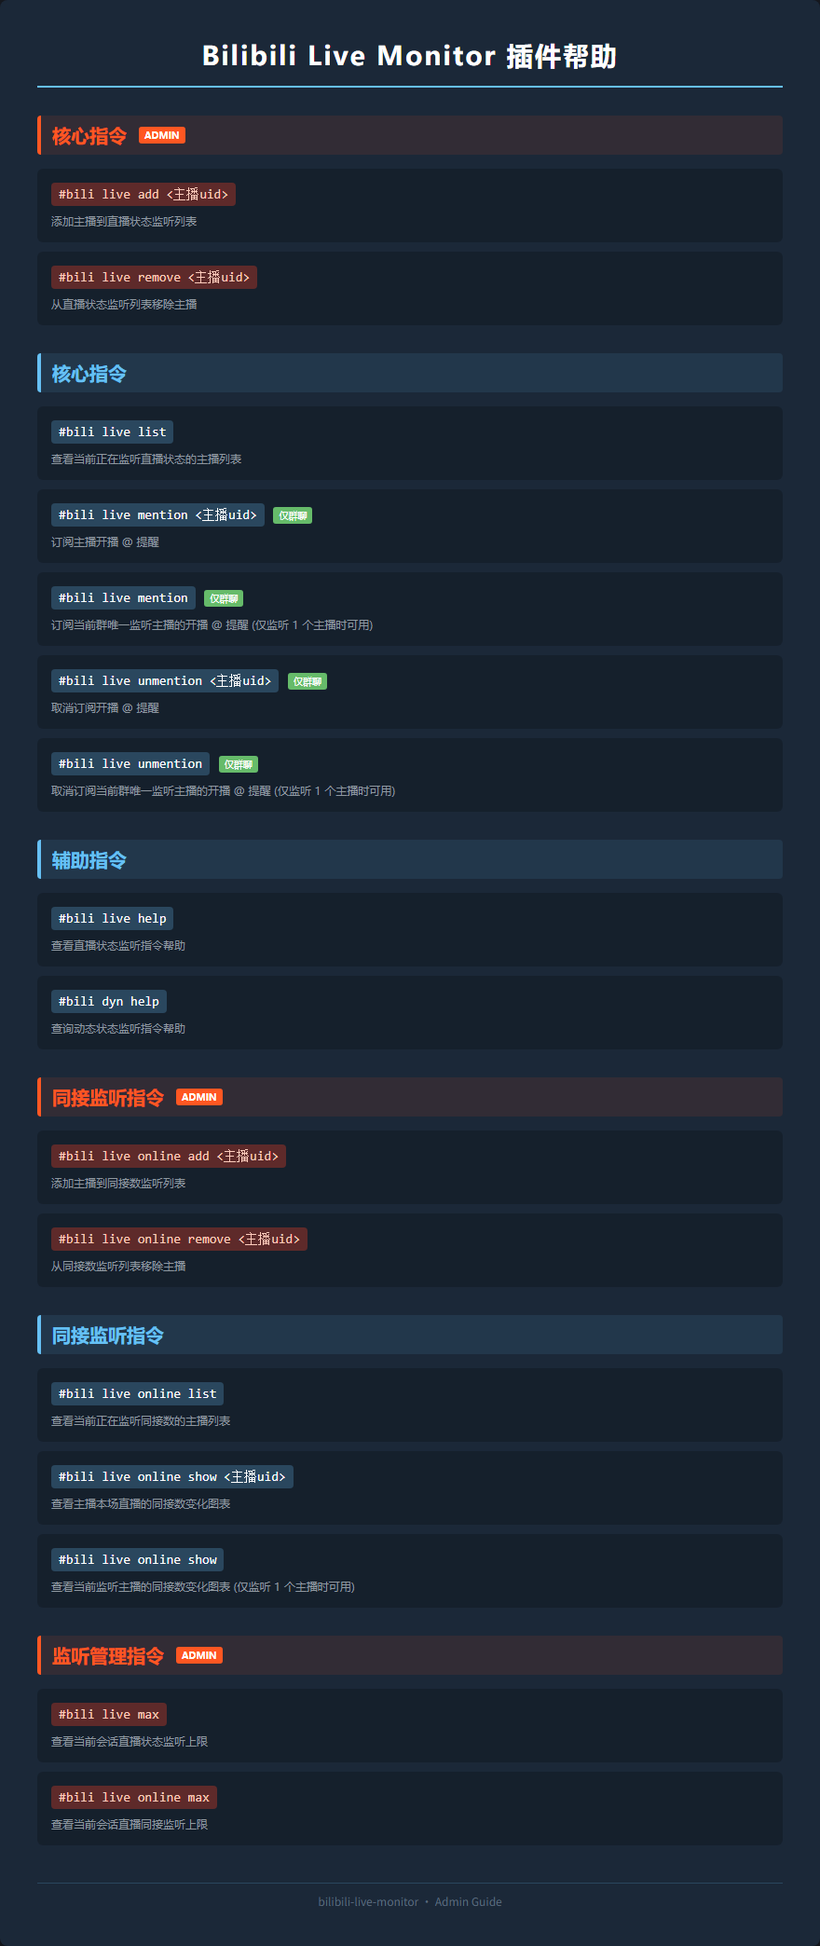
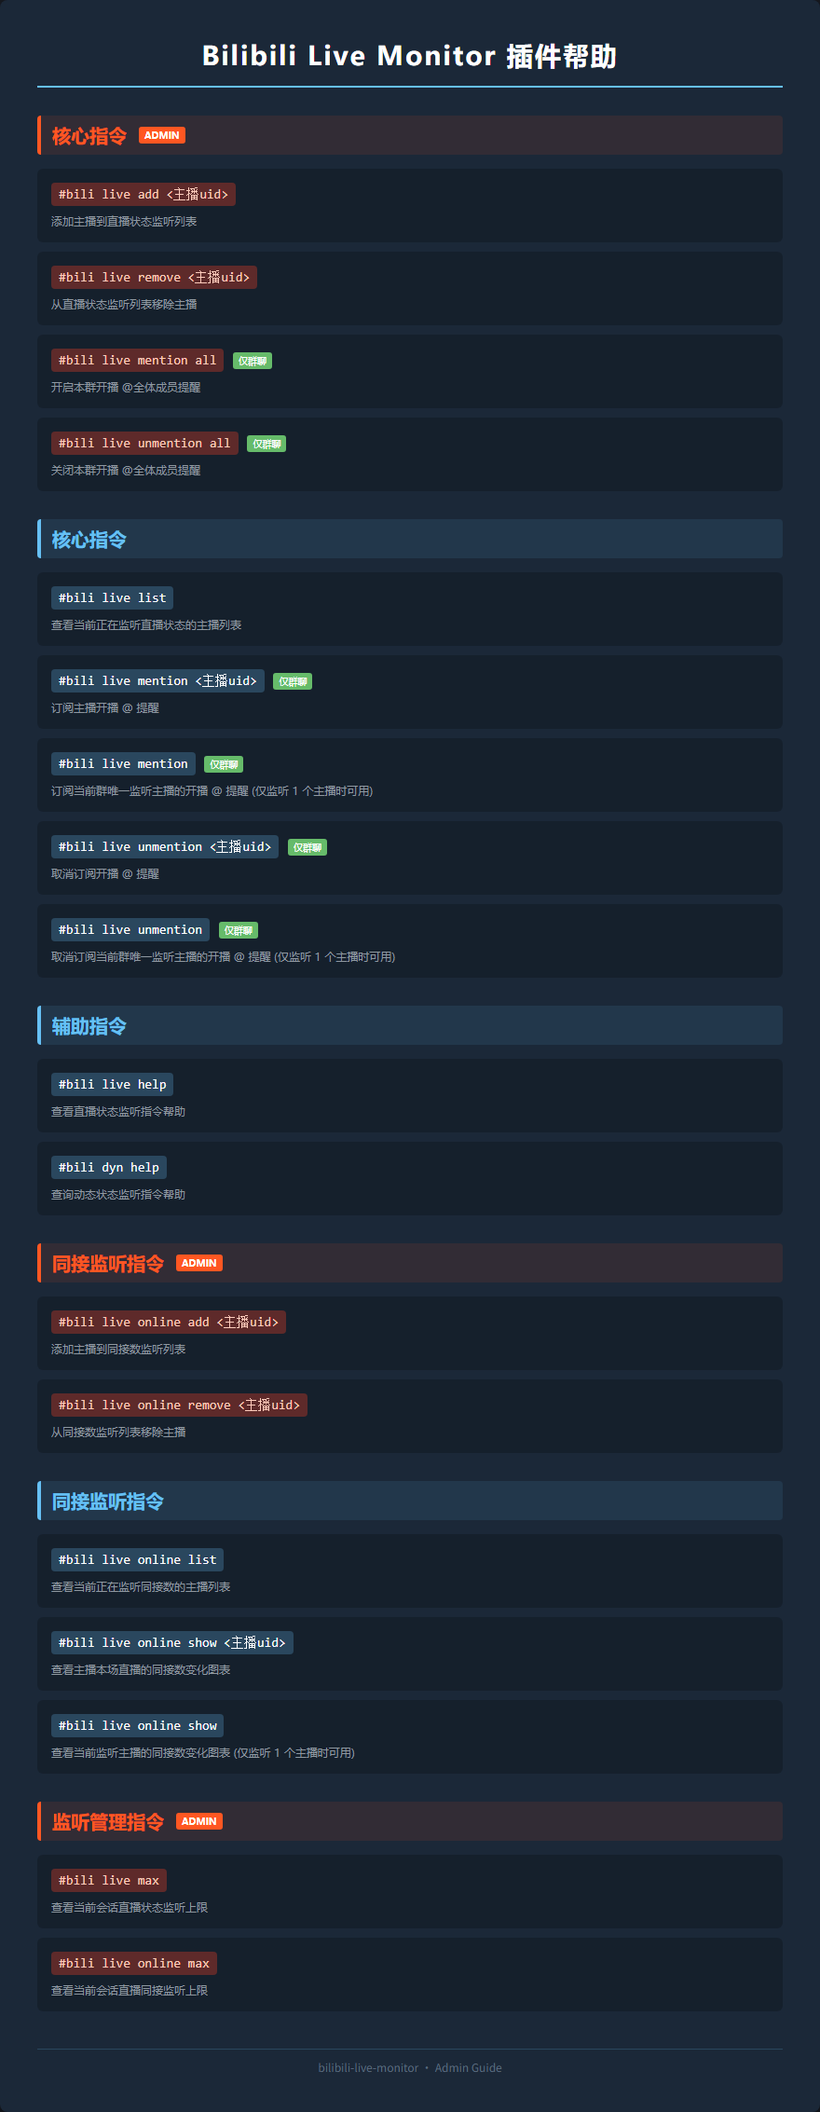
feat(live): 新增群级开播 @全体成员提醒指令
新增 #bili live mention all / unmention all (仅群聊、管理员): 开启后本群开播推送前置 @全体成员。机器人非管理员或当日配额用完时静默降级为普通消息。校验封装于 src/core/atAll.ts。

Changed region(s): [[0.0307, 0.0, 0.9511, 0.965], [0.5216, 0.965, 0.6136, 0.9962], [0.4295, 0.965, 0.4909, 0.9962]]

diff --git a/src/handlers/live/helpText.generated.ts b/src/handlers/live/helpText.generated.ts
@@ -8,6 +8,6 @@ import type { HelpVariant } from '../../utils/helpMessage';
 /** 按帮助版本的文本帮助 (图片降级用), Admin 版同时用于私聊用户与群聊超管 */
 export const HELP_TEXT_MAP: Record<HelpVariant, string> = {
     user: "【Bilibili Live Monitor 插件帮助】\n\n核心指令:\n#bili live list: 查看当前正在监听直播状态的主播列表\n#bili live mention <主播uid>: 订阅主播开播 @ 提醒 [仅群聊]\n#bili live mention: 订阅当前群唯一监听主播的开播 @ 提醒 (仅监听 1 个主播时可用) [仅群聊]\n#bili live unmention <主播uid>: 取消订阅开播 @ 提醒 [仅群聊]\n#bili live unmention: 取消订阅当前群唯一监听主播的开播 @ 提醒 (仅监听 1 个主播时可用) [仅群聊]\n\n辅助指令:\n#bili live help: 查看直播状态监听指令帮助\n#bili dyn help: 查询动态状态监听指令帮助\n\n同接监听指令:\n#bili live online list: 查看当前正在监听同接数的主播列表\n#bili live online show <主播uid>: 查看主播本场直播的同接数变化图表\n#bili live online show: 查看当前监听主播的同接数变化图表 (仅监听 1 个主播时可用)\n",
-    admin: "【Bilibili Live Monitor 插件帮助】\n\n核心指令 [管理员]:\n#bili live add <主播uid>: 添加主播到直播状态监听列表\n#bili live remove <主播uid>: 从直播状态监听列表移除主播\n\n核心指令:\n#bili live list: 查看当前正在监听直播状态的主播列表\n#bili live mention <主播uid>: 订阅主播开播 @ 提醒 [仅群聊]\n#bili live mention: 订阅当前群唯一监听主播的开播 @ 提醒 (仅监听 1 个主播时可用) [仅群聊]\n#bili live unmention <主播uid>: 取消订阅开播 @ 提醒 [仅群聊]\n#bili live unmention: 取消订阅当前群唯一监听主播的开播 @ 提醒 (仅监听 1 个主播时可用) [仅群聊]\n\n辅助指令:\n#bili live help: 查看直播状态监听指令帮助\n#bili dyn help: 查询动态状态监听指令帮助\n\n同接监听指令 [管理员]:\n#bili live online add <主播uid>: 添加主播到同接数监听列表\n#bili live online remove <主播uid>: 从同接数监听列表移除主播\n\n同接监听指令:\n#bili live online list: 查看当前正在监听同接数的主播列表\n#bili live online show <主播uid>: 查看主播本场直播的同接数变化图表\n#bili live online show: 查看当前监听主播的同接数变化图表 (仅监听 1 个主播时可用)\n\n监听管理指令 [管理员]:\n#bili live max: 查看当前会话直播状态监听上限\n#bili live online max: 查看当前会话直播同接监听上限\n",
-    superAdmin: "【Bilibili Live Monitor 插件帮助】\n\n核心指令 [管理员]:\n#bili live add <主播uid>: 添加主播到直播状态监听列表\n#bili live remove <主播uid>: 从直播状态监听列表移除主播\n\n核心指令:\n#bili live list: 查看当前正在监听直播状态的主播列表\n#bili live mention <主播uid>: 订阅主播开播 @ 提醒 [仅群聊]\n#bili live mention: 订阅当前群唯一监听主播的开播 @ 提醒 (仅监听 1 个主播时可用) [仅群聊]\n#bili live unmention <主播uid>: 取消订阅开播 @ 提醒 [仅群聊]\n#bili live unmention: 取消订阅当前群唯一监听主播的开播 @ 提醒 (仅监听 1 个主播时可用) [仅群聊]\n\n辅助指令:\n#bili live help: 查看直播状态监听指令帮助\n#bili dyn help: 查询动态状态监听指令帮助\n\n辅助指令 [超管]:\n#bili user help: 查询 Bilibili 用户登录指令帮助 [仅私聊]\n\n同接监听指令 [管理员]:\n#bili live online add <主播uid>: 添加主播到同接数监听列表\n#bili live online remove <主播uid>: 从同接数监听列表移除主播\n\n同接监听指令:\n#bili live online list: 查看当前正在监听同接数的主播列表\n#bili live online show <主播uid>: 查看主播本场直播的同接数变化图表\n#bili live online show: 查看当前监听主播的同接数变化图表 (仅监听 1 个主播时可用)\n\n监听管理指令 [管理员]:\n#bili live max: 查看当前会话直播状态监听上限\n#bili live online max: 查看当前会话直播同接监听上限\n\n监听管理指令 [超管]:\n#bili live max <监听数>: 设置当前群聊直播状态监听上限 [仅群聊]\n#bili live max <监听数> <group|private> <id>: 修改指定会话直播状态监听上限 [仅私聊]\n#bili live online max <监听数>: 设置当前群聊直播同接监听上限 [仅群聊]\n#bili live online max <监听数> <group|private> <id>: 修改指定会话直播同接监听上限 [仅私聊]\n",
+    admin: "【Bilibili Live Monitor 插件帮助】\n\n核心指令 [管理员]:\n#bili live add <主播uid>: 添加主播到直播状态监听列表\n#bili live remove <主播uid>: 从直播状态监听列表移除主播\n#bili live mention all: 开启本群开播 @全体成员提醒 [仅群聊]\n#bili live unmention all: 关闭本群开播 @全体成员提醒 [仅群聊]\n\n核心指令:\n#bili live list: 查看当前正在监听直播状态的主播列表\n#bili live mention <主播uid>: 订阅主播开播 @ 提醒 [仅群聊]\n#bili live mention: 订阅当前群唯一监听主播的开播 @ 提醒 (仅监听 1 个主播时可用) [仅群聊]\n#bili live unmention <主播uid>: 取消订阅开播 @ 提醒 [仅群聊]\n#bili live unmention: 取消订阅当前群唯一监听主播的开播 @ 提醒 (仅监听 1 个主播时可用) [仅群聊]\n\n辅助指令:\n#bili live help: 查看直播状态监听指令帮助\n#bili dyn help: 查询动态状态监听指令帮助\n\n同接监听指令 [管理员]:\n#bili live online add <主播uid>: 添加主播到同接数监听列表\n#bili live online remove <主播uid>: 从同接数监听列表移除主播\n\n同接监听指令:\n#bili live online list: 查看当前正在监听同接数的主播列表\n#bili live online show <主播uid>: 查看主播本场直播的同接数变化图表\n#bili live online show: 查看当前监听主播的同接数变化图表 (仅监听 1 个主播时可用)\n\n监听管理指令 [管理员]:\n#bili live max: 查看当前会话直播状态监听上限\n#bili live online max: 查看当前会话直播同接监听上限\n",
+    superAdmin: "【Bilibili Live Monitor 插件帮助】\n\n核心指令 [管理员]:\n#bili live add <主播uid>: 添加主播到直播状态监听列表\n#bili live remove <主播uid>: 从直播状态监听列表移除主播\n#bili live mention all: 开启本群开播 @全体成员提醒 [仅群聊]\n#bili live unmention all: 关闭本群开播 @全体成员提醒 [仅群聊]\n\n核心指令:\n#bili live list: 查看当前正在监听直播状态的主播列表\n#bili live mention <主播uid>: 订阅主播开播 @ 提醒 [仅群聊]\n#bili live mention: 订阅当前群唯一监听主播的开播 @ 提醒 (仅监听 1 个主播时可用) [仅群聊]\n#bili live unmention <主播uid>: 取消订阅开播 @ 提醒 [仅群聊]\n#bili live unmention: 取消订阅当前群唯一监听主播的开播 @ 提醒 (仅监听 1 个主播时可用) [仅群聊]\n\n辅助指令:\n#bili live help: 查看直播状态监听指令帮助\n#bili dyn help: 查询动态状态监听指令帮助\n\n辅助指令 [超管]:\n#bili user help: 查询 Bilibili 用户登录指令帮助 [仅私聊]\n\n同接监听指令 [管理员]:\n#bili live online add <主播uid>: 添加主播到同接数监听列表\n#bili live online remove <主播uid>: 从同接数监听列表移除主播\n\n同接监听指令:\n#bili live online list: 查看当前正在监听同接数的主播列表\n#bili live online show <主播uid>: 查看主播本场直播的同接数变化图表\n#bili live online show: 查看当前监听主播的同接数变化图表 (仅监听 1 个主播时可用)\n\n监听管理指令 [管理员]:\n#bili live max: 查看当前会话直播状态监听上限\n#bili live online max: 查看当前会话直播同接监听上限\n\n监听管理指令 [超管]:\n#bili live max <监听数>: 设置当前群聊直播状态监听上限 [仅群聊]\n#bili live max <监听数> <group|private> <id>: 修改指定会话直播状态监听上限 [仅私聊]\n#bili live online max <监听数>: 设置当前群聊直播同接监听上限 [仅群聊]\n#bili live online max <监听数> <group|private> <id>: 修改指定会话直播同接监听上限 [仅私聊]\n",
 };

diff --git a/src/core/atAll.ts b/src/core/atAll.ts
@@ -1,0 +1,105 @@
+/**
+ * @全体成员 发送能力校验模块
+ *
+ * 封装"机器人能否在指定群发送 @全体成员"的前置校验:
+ * 机器人须为本群管理员/群主, 且当日群配额未用完。
+ * 校验只读不写, 任何查询失败一律按"不可发送"处理 (静默降级),
+ * 由调用方决定跳过 @全体还是普通发送。范式见 docs/message-send-pattern.md。
+ */
+
+import type { NapCatPluginContext } from 'napcat-types/napcat-onebot/network/plugin/types';
+import { pluginState } from './state';
+
+/** 机器人在群内的成员角色 */
+export type BotGroupRole = 'owner' | 'admin' | 'member';
+
+/** @全体成员 配额查询结果 (字段名沿用 OneBot 11 的 get_group_at_all_remain) */
+interface AtAllRemain {
+    /** 机器人账号在该群是否具备 @全体成员 权限 */
+    can_at_all: boolean;
+    /** 该群当日剩余 @全体成员 次数 */
+    remain_at_all_count_for_group: number;
+    /** 机器人账号当日剩余 @全体成员 次数 (跨群共享) */
+    remain_at_all_count_for_uin: number;
+}
+
+/**
+ * 查询机器人自身在指定群的成员角色
+ * 查询失败、机器人 QQ 未知或角色无法识别时返回 null
+ */
+export async function getBotGroupRole(
+    ctx: NapCatPluginContext,
+    groupId: string | number,
+): Promise<BotGroupRole | null> {
+    if (!pluginState.selfId) return null;
+    try {
+        const info = (await ctx.actions.call(
+            'get_group_member_info',
+            {
+                group_id: String(groupId),
+                user_id: pluginState.selfId,
+            },
+            ctx.adapterName,
+            ctx.pluginManager.config,
+        )) as { role?: string };
+        if (
+            info?.role === 'owner' ||
+            info?.role === 'admin' ||
+            info?.role === 'member'
+        ) {
+            return info.role;
+        }
+        return null;
+    } catch (error) {
+        pluginState.logger.debug('查询机器人群成员角色失败:', error);
+        return null;
+    }
+}
+
+/**
+ * 判断机器人是否为指定群的管理员/群主
+ * 查询失败视为否 (fail-closed)
+ */
+export async function isBotGroupAdmin(
+    ctx: NapCatPluginContext,
+    groupId: string | number,
+): Promise<boolean> {
+    const role = await getBotGroupRole(ctx, groupId);
+    return role === 'owner' || role === 'admin';
+}
+
+/** 查询群内 @全体成员 剩余配额; 查询失败返回 null (按不可发送处理) */
+async function getAtAllQuota(
+    ctx: NapCatPluginContext,
+    groupId: string | number,
+): Promise<AtAllRemain | null> {
+    try {
+        return (await ctx.actions.call(
+            'get_group_at_all_remain',
+            { group_id: String(groupId) },
+            ctx.adapterName,
+            ctx.pluginManager.config,
+        )) as AtAllRemain;
+    } catch (error) {
+        pluginState.logger.debug('查询 @全体成员 配额失败:', error);
+        return null;
+    }
+}
+
+/**
+ * 判断能否对指定群发送 @全体成员
+ * 需机器人为群管理员且群内当日配额未用完; 任一条件不满足或查询失败
+ * 均返回 false (静默降级, 不向用户提示)
+ */
+export async function canSendAtAll(
+    ctx: NapCatPluginContext,
+    groupId: string | number,
+): Promise<boolean> {
+    if (!(await isBotGroupAdmin(ctx, groupId))) return false;
+    const quota = await getAtAllQuota(ctx, groupId);
+    return (
+        !!quota &&
+        quota.can_at_all &&
+        quota.remain_at_all_count_for_group > 0
+    );
+}

diff --git a/src/services/live/polling.service.ts b/src/services/live/polling.service.ts
@@ -10,14 +10,17 @@
  * 因此这里使用惰性 getter，避免模块加载期过早初始化抛错。
  */
 
-import type {
-    OB11MessageDataType,
-    OB11PostSendMsg,
-} from 'napcat-types/napcat-onebot';
+import type { OB11PostSendMsg } from 'napcat-types/napcat-onebot';
 import type { NapCatPluginContext } from 'napcat-types/napcat-onebot/network/plugin/types';
 import { api_getStatusInfoByUids } from '../../api/getStatusInfoByUids';
+import { canSendAtAll } from '../../core/atAll';
 import { pluginState } from '../../core/state';
-import { sendReplyByToInfo } from '../../handlers/utils';
+import {
+    createAtMessage,
+    createTextMessage,
+    prependAtAllMessage,
+    sendReplyByToInfo,
+} from '../../handlers/utils';
 import { BiliDynMonitorStore } from '../../store/biliDynMonitor.store';
 import {
     BiliLiveMonitorStore,
@@ -278,10 +281,22 @@ export class BiliLivePollingService {
                     }
                 }
 
+                // 开播且本群开启 @全体成员提醒时, 机器人为管理员且当日
+                // 配额未用完方可在消息前置 @全体; 否则静默降级为普通消息
+                let outgoing: OB11PostSendMsg['message'] = message;
+                if (
+                    event.type === 'start_stream' &&
+                    toInfo.type === 'group' &&
+                    pluginState.isLiveMentionAllEnabled(toInfo.id) &&
+                    (await canSendAtAll(pluginState.ctx, toInfo.id))
+                ) {
+                    outgoing = prependAtAllMessage(message);
+                }
+
                 await sendReplyByToInfo(
                     pluginState.ctx,
                     toInfo,
-                    message,
+                    outgoing,
                 );
             }
 
@@ -582,14 +597,8 @@ async function sendMentionMessages(
     ) {
         const chunk = mentionUsers.slice(i, i + MENTION_GROUP_SIZE);
         const message: OB11PostSendMsg['message'] = [
-            ...chunk.map((qq) => ({
-                type: 'at' as OB11MessageDataType.at,
-                data: { qq },
-            })),
-            {
-                type: 'text' as OB11MessageDataType.text,
-                data: { text: `\n「${uname}」开始直播了` },
-            },
+            ...chunk.map((qq) => createAtMessage(qq)),
+            createTextMessage(`\n「${uname}」开始直播了`),
         ];
         await sendReplyByToInfo(ctx, toInfo, message);
     }

diff --git a/src/handlers/instruction.handler.ts b/src/handlers/instruction.handler.ts
@@ -12,6 +12,7 @@ import { helpLiveHandler } from './live/help.handler';
 import { listLiveHandler } from './live/list.handler';
 import { maxLiveHandler } from './live/max.handler';
 import { mentionLiveHandler } from './live/mention.handler';
+import { mentionAllHandler } from './live/mentionAll.handler';
 import { addOnlineHandler } from './live/online/add.handler';
 import { listOnlineHandler } from './live/online/list.handler';
 import { maxOnlineHandler } from './live/online/max.handler';
@@ -19,6 +20,7 @@ import { removeOnlineHandler } from './live/online/remove.handler';
 import { showOnlineHandler } from './live/online/show.handler';
 import { removeLiveHandler } from './live/remove.handler';
 import { unmentionLiveHandler } from './live/unmention.handler';
+import { unmentionAllHandler } from './live/unmentionAll.handler';
 import { helpUserHandler } from './user/help.handler';
 import { loginHandler } from './user/login.handler';
 import { logoutHandler } from './user/logout.handler';
@@ -127,6 +129,26 @@ const nestedInstructionSetMapper: Record<
                         requiredRole: 'superAdmin',
                     },
                 ],
+            },
+        },
+        mention: {
+            /**
+             * 开启本群开播 @全体成员提醒 (仅群聊, 管理员)
+             */
+            all: {
+                handler: mentionAllHandler,
+                requiredRole: 'admin',
+                scope: 'group',
+            },
+        },
+        unmention: {
+            /**
+             * 关闭本群开播 @全体成员提醒 (仅群聊, 管理员)
+             */
+            all: {
+                handler: unmentionAllHandler,
+                requiredRole: 'admin',
+                scope: 'group',
             },
         },
     },

diff --git a/src/handlers/utils.ts b/src/handlers/utils.ts
@@ -8,7 +8,9 @@
 
 import type {
     OB11Message,
+    OB11MessageAt,
     OB11MessageDataType,
+    OB11MessageText,
     OB11PostSendMsg,
 } from 'napcat-types/napcat-onebot';
 import type { NapCatPluginContext } from 'napcat-types/napcat-onebot/network/plugin/types';
@@ -204,4 +206,42 @@ export function createImageMessage(
         type: 'image' as OB11MessageDataType.image,
         data: { file },
     };
+}
+
+/**
+ * 创建文本消息段
+ */
+export function createTextMessage(text: string): OB11MessageText {
+    return {
+        type: 'text' as OB11MessageDataType.text,
+        data: { text },
+    };
+}
+
+/**
+ * 创建 @ 消息段
+ * @param qq 目标 QQ 号, 取固定值 'all' 即 @全体成员
+ * @param name 群昵称, @全体成员 时无需传入
+ */
+export function createAtMessage(
+    qq: string,
+    name?: string,
+): OB11MessageAt {
+    const data: OB11MessageAt['data'] = { qq };
+    if (name) data.name = name;
+    return { type: 'at' as OB11MessageDataType.at, data };
+}
+
+/**
+ * 在消息最前面插入 @全体成员 段
+ * 字符串消息升级为消息段数组 (纯 @全体成员 无正文在多数客户端渲染为空白,
+ * 故 @全体成员 后始终跟随原有文本)
+ */
+export function prependAtAllMessage(
+    message: OB11PostSendMsg['message'],
+): OB11PostSendMsg['message'] {
+    if (typeof message === 'string') {
+        return [createAtMessage('all'), createTextMessage(message)];
+    }
+    return [createAtMessage('all'), ...message];
 }

diff --git a/src/handlers/live/mentionAll.handler.ts b/src/handlers/live/mentionAll.handler.ts
@@ -1,0 +1,40 @@
+import type { OB11Message } from 'napcat-types/napcat-onebot';
+import type { NapCatPluginContext } from 'napcat-types/napcat-onebot/network/plugin/types';
+import { getBotGroupRole } from '../../core/atAll';
+import { pluginState } from '../../core/state';
+import { sendReply } from '../utils';
+
+/**
+ * 开启本群开播 @全体成员提醒（仅群聊、管理员）
+ *
+ * 开启前确认机器人为本群管理员: 查询失败则 fail-closed 拒绝,
+ * 机器人非管理员时提示先设为管理员。
+ */
+export const mentionAllHandler = async (
+    ctx: NapCatPluginContext,
+    event: OB11Message,
+    _commands: string[],
+) => {
+    const groupId = String(event.group_id);
+
+    const role = await getBotGroupRole(ctx, groupId);
+    if (role === null) {
+        await sendReply(
+            ctx,
+            event,
+            '开启失败：无法确认机器人权限, 请稍后重试',
+        );
+        return;
+    }
+    if (role === 'member') {
+        await sendReply(
+            ctx,
+            event,
+            '开启失败：机器人不是本群管理员, 请先将机器人设为群管理员',
+        );
+        return;
+    }
+
+    pluginState.updateGroupConfig(groupId, { liveMentionAll: true });
+    await sendReply(ctx, event, '已开启本群开播 @全体成员提醒');
+};

diff --git a/src/core/state.ts b/src/core/state.ts
@@ -87,6 +87,8 @@ export function sanitizeConfig(raw: unknown): PluginConfig {
                 const cfg: GroupConfig = {};
                 if (typeof groupConfig.enabled === 'boolean')
                     cfg.enabled = groupConfig.enabled;
+                if (typeof groupConfig.liveMentionAll === 'boolean')
+                    cfg.liveMentionAll = groupConfig.liveMentionAll;
                 // TODO: 在这里添加你的群配置项清洗
                 out.groupConfigs[groupId] = cfg;
             }
@@ -307,6 +309,16 @@ class PluginState {
      */
     isGroupEnabled(groupId: string): boolean {
         return this.config.groupConfigs[groupId]?.enabled !== false;
+    }
+
+    /**
+     * 检查指定群是否开启开播 @全体成员提醒
+     * 默认关闭, 仅显式存为 true 才生效
+     */
+    isLiveMentionAllEnabled(groupId: string): boolean {
+        return (
+            this.config.groupConfigs[groupId]?.liveMentionAll === true
+        );
     }
 
     /**

diff --git a/src/handlers/live/unmentionAll.handler.ts b/src/handlers/live/unmentionAll.handler.ts
@@ -1,0 +1,25 @@
+import type { OB11Message } from 'napcat-types/napcat-onebot';
+import type { NapCatPluginContext } from 'napcat-types/napcat-onebot/network/plugin/types';
+import { pluginState } from '../../core/state';
+import { sendReply } from '../utils';
+
+/**
+ * 关闭本群开播 @全体成员提醒（仅群聊、管理员）
+ *
+ * 关闭为无害操作, 不校验机器人身份, 仅受指令级 admin 门槛约束。
+ */
+export const unmentionAllHandler = async (
+    ctx: NapCatPluginContext,
+    event: OB11Message,
+    _commands: string[],
+) => {
+    const groupId = String(event.group_id);
+
+    if (!pluginState.isLiveMentionAllEnabled(groupId)) {
+        await sendReply(ctx, event, '本群未开启开播 @全体成员提醒');
+        return;
+    }
+
+    pluginState.updateGroupConfig(groupId, { liveMentionAll: false });
+    await sendReply(ctx, event, '已关闭本群开播 @全体成员提醒');
+};

diff --git a/scripts/generateHelp/cmds/bilibili-live-monitor.ts b/scripts/generateHelp/cmds/bilibili-live-monitor.ts
@@ -16,6 +16,16 @@ export const bilibiliLiveMonitor: Cmd = {
                     cmd: '#bili live remove <主播uid>',
                     desc: '从直播状态监听列表移除主播',
                 },
+                {
+                    cmd: '#bili live mention all',
+                    desc: '开启本群开播 @全体成员提醒',
+                    onlyGroup: true,
+                },
+                {
+                    cmd: '#bili live unmention all',
+                    desc: '关闭本群开播 @全体成员提醒',
+                    onlyGroup: true,
+                },
             ],
         },
         {

diff --git a/src/types.ts b/src/types.ts
@@ -40,6 +40,8 @@ export interface PluginConfig {
 export interface GroupConfig {
     /** 是否启用此群的功能 */
     enabled?: boolean;
+    /** 是否开启本群开播 @全体成员提醒（缺省关闭，仅显式 true 生效） */
+    liveMentionAll?: boolean;
     // TODO: 在这里添加群级别的配置项
 }
 
